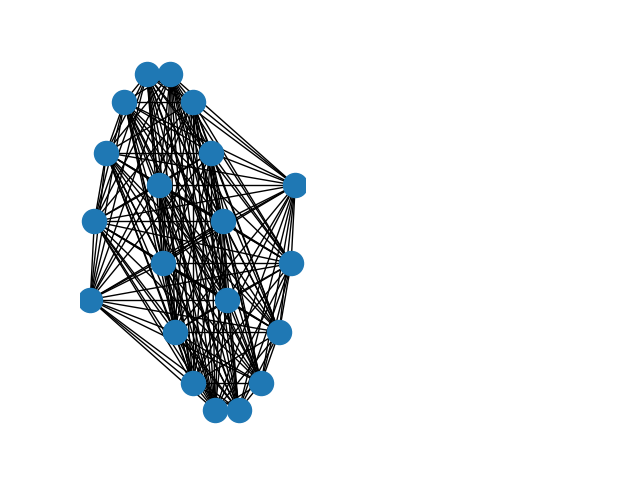
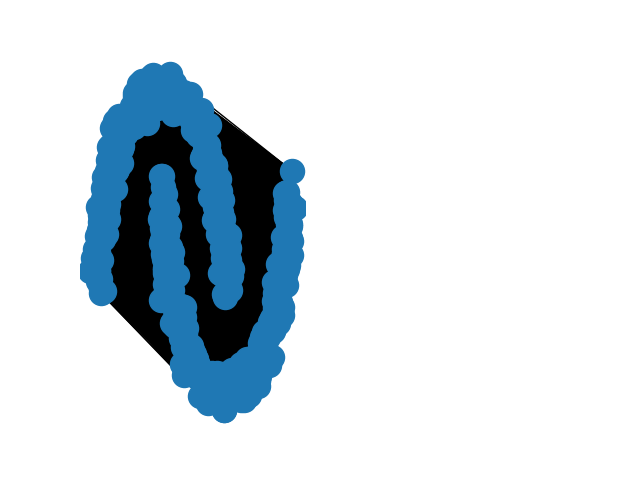
more stuff

Changed region(s): [[0.125, 0.125, 0.5, 0.9062]]

diff --git a/main.py b/main.py
@@ -2,41 +2,28 @@ import networkx as nx
 import matplotlib.pyplot as plt
 import matplotlib
 import numpy as np
+import helper as help
 
 from sklearn.datasets import make_moons
+from sklearn.cluster import KMeans
 
-X, Y = make_moons(n_samples=20, noise=0)
-print(X)
-print(Y)
+X, Y = make_moons(n_samples=100, noise=0)
 
-G = nx.Graph()
-for i,node in enumerate(X):
-    G.add_node(i, pos=(node[0],node[1]))
-
-for i,node in enumerate(X):
-    for j in range(i+1,len(X)):
-        dx = node[0] - X[j][0]
-        dy = node[0] - X[j][1]
-        dist = (dx**2 + dy**2)**0.5
-        G.add_edge(i,j,weight=dist)    
-
-#L = nx.laplacian_matrix(G)
-
-def matPrintView(matrix):
-    size = matrix.shape
-    for i in range(size[0]):
-        for j in range(size[1]):
-            print(matrix[i,j], " ",end = '')
-        print()
-
+moonsGraph = help.makeMoonsGraph(X)
+L = nx.laplacian_matrix(moonsGraph)
+A = nx.adjacency_matrix(moonsGraph)
+Lnorm = nx.normalized_laplacian_matrix(moonsGraph)
 #matrix.A returns matrix view
-#print(L.A)
-#eigW, eigV = np.linalg.eig(L.A)
+
+print(L.toarray())
+eigW, eigV = np.linalg.eig(L.A)
+
+#help.findBestEigen(eigV, Y, X)
 #print("Largest eigenvalue:", max(e))
 #print("Smallest eigenvalue:", min(e))
 
-#print(eigW)
-#print(eigV)
+print(eigW)
+#print(eigV[0])
 
 new_x = []
 new_y = []
@@ -45,10 +32,14 @@ for r in X:
     new_x.append(r[0])
     new_y.append(r[1])
 
-plt.scatter(new_x, new_y, c=Y)
+kmeans = KMeans(n_clusters=2)
+new_data = eigV[1].reshape(-1,1)
+
+kmeans.fit(new_data)
+plt.scatter(new_x, new_y, c=kmeans.labels_)
 plt.savefig("moons.png")
 
-pos=nx.get_node_attributes(G,'pos')
-ax = plt.subplot(121)
-nx.draw(G, pos)
-plt.savefig('graph.png')
+#pos=nx.get_node_attributes(moonsGraph,'pos')
+#ax = plt.subplot(121)
+#nx.draw(moonsGraph, pos)
+#plt.savefig('graph.png')

diff --git a/helper.py b/helper.py
@@ -1,0 +1,44 @@
+
+import networkx as nx
+from sklearn.cluster import KMeans
+
+import matplotlib.pyplot as plt
+import matplotlib
+
+def makeMoonsGraph(X):
+    
+    G = nx.Graph()
+    for i,node in enumerate(X):
+        G.add_node(i, pos=(node[0],node[1]))
+
+    for i,node in enumerate(X):
+        for j in range(i+1,len(X)):
+            dx = node[0] - X[j][0]
+            dy = node[1] - X[j][1]
+            dist = (dx**2 + dy**2)**0.5
+            w = 2.781 ** ( ((dist ** 2)) / 2)
+            G.add_edge(i,j,weight = dist)
+    return G
+
+def findBestEigen(eigVecs, Correct_labels, X):
+    new_x = []
+    new_y = []
+
+    for r in X:
+        new_x.append(r[0])
+        new_y.append(r[1])
+    kmeans = KMeans(n_clusters=2)
+
+    for count, eigVec in enumerate(eigVecs):
+        new_data = eigVec.reshape(-1,1)
+
+        kmeans.fit(new_data)
+        correct = 0
+        for i, label in enumerate(Correct_labels):
+            if label == kmeans.labels_[i]:
+                correct += 1
+            
+        accuracy = correct/len(Correct_labels)
+        print("EigenVector ", count, " Accuracy = ", accuracy)
+        plt.scatter(new_x, new_y, c=kmeans.labels_)
+        plt.savefig("moons.png")
